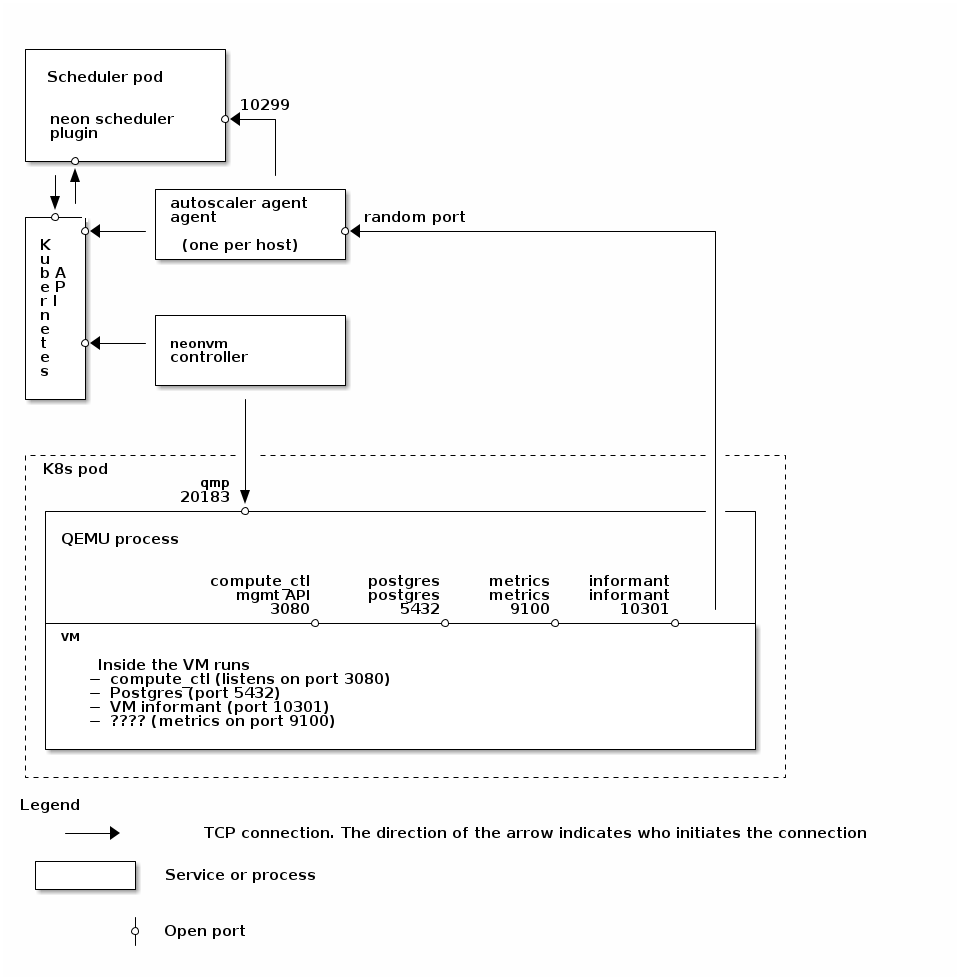
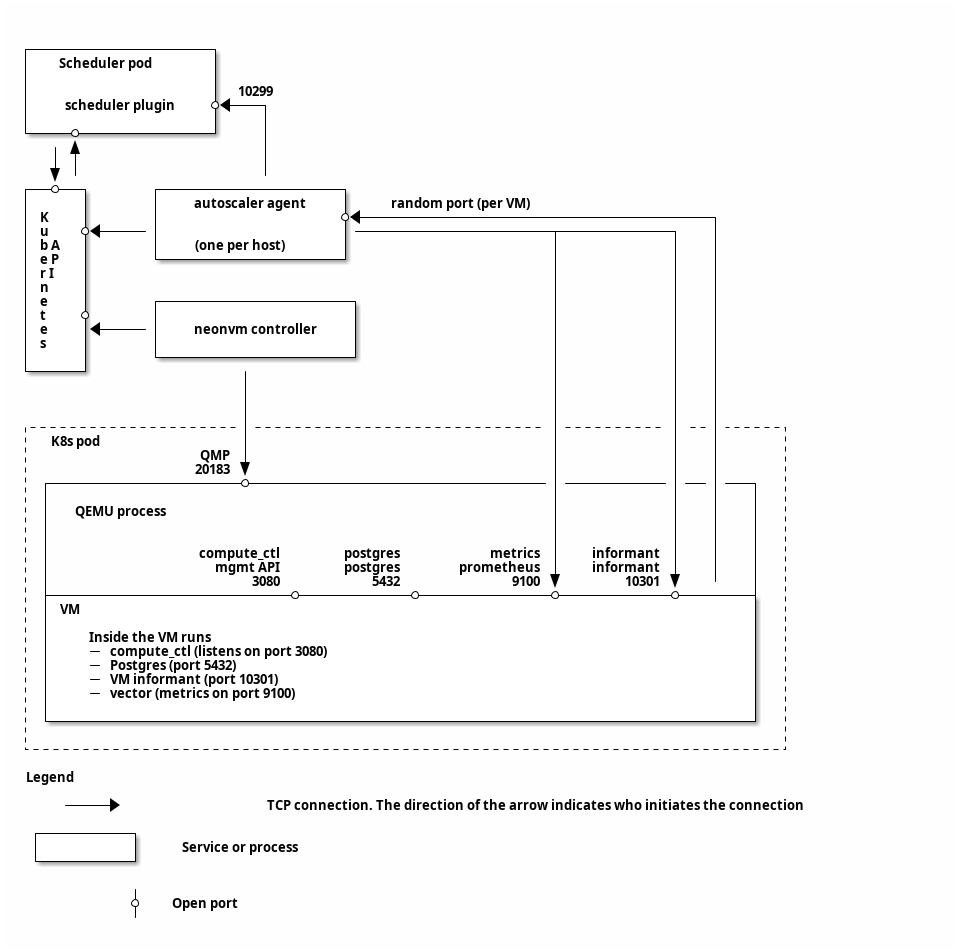
Add arrows, fix names

diff --git a/ARCHITECTURE.md b/ARCHITECTURE.md
@@ -12,6 +12,7 @@ This document should be up-to-date. If it isn't, that's a mistake (open an issue
 
 * [See also](#see-also)
 * [High-level overview](#high-level-overview)
+* [Network connections between components](#network-connections-between-components)
 * [Repository structure](#repository-structure)
 * [Agent-Scheduler protocol details](#agent-scheduler-protocol-details)
   * [Agent-Scheduler protocol steps](#agent-scheduler-protocol-steps)
@@ -19,13 +20,6 @@ This document should be up-to-date. If it isn't, that's a mistake (open an issue
 * [High-level consequences of the Agent-Scheduler protocol](#high-level-consequences-of-the-agent-scheduler-protocol)
 * [Agent-Informant protocol details](#agent-informant-protocol-details)
 * [Footguns](#footguns)
-
-
-## Components and network connections between them
-
-![diagram](ARCHITECTURE-network-diagram.png)
-[Diagram source](ARCHITECTURE-network-diagram.org)
-
 
 ## See also
 
@@ -69,6 +63,11 @@ memory is roughly linear. In practice, it's possible for this to become slightly
 discussed more in the [high-level consequences] section below.
 
 [high-level consequences]: #high-level-consequences-of-the-agent-scheduler-protocol
+
+## Network connections between components
+
+![Diagram of network connections between the components listed above, in addition to the kubernetes API and Neon compute node. Directed arrows indicate which component initiates each TCP connection](ARCHITECTURE-network-diagram.png)
+[Diagram source](ARCHITECTURE-network-diagram.org)
 
 ## Repository structure
 
